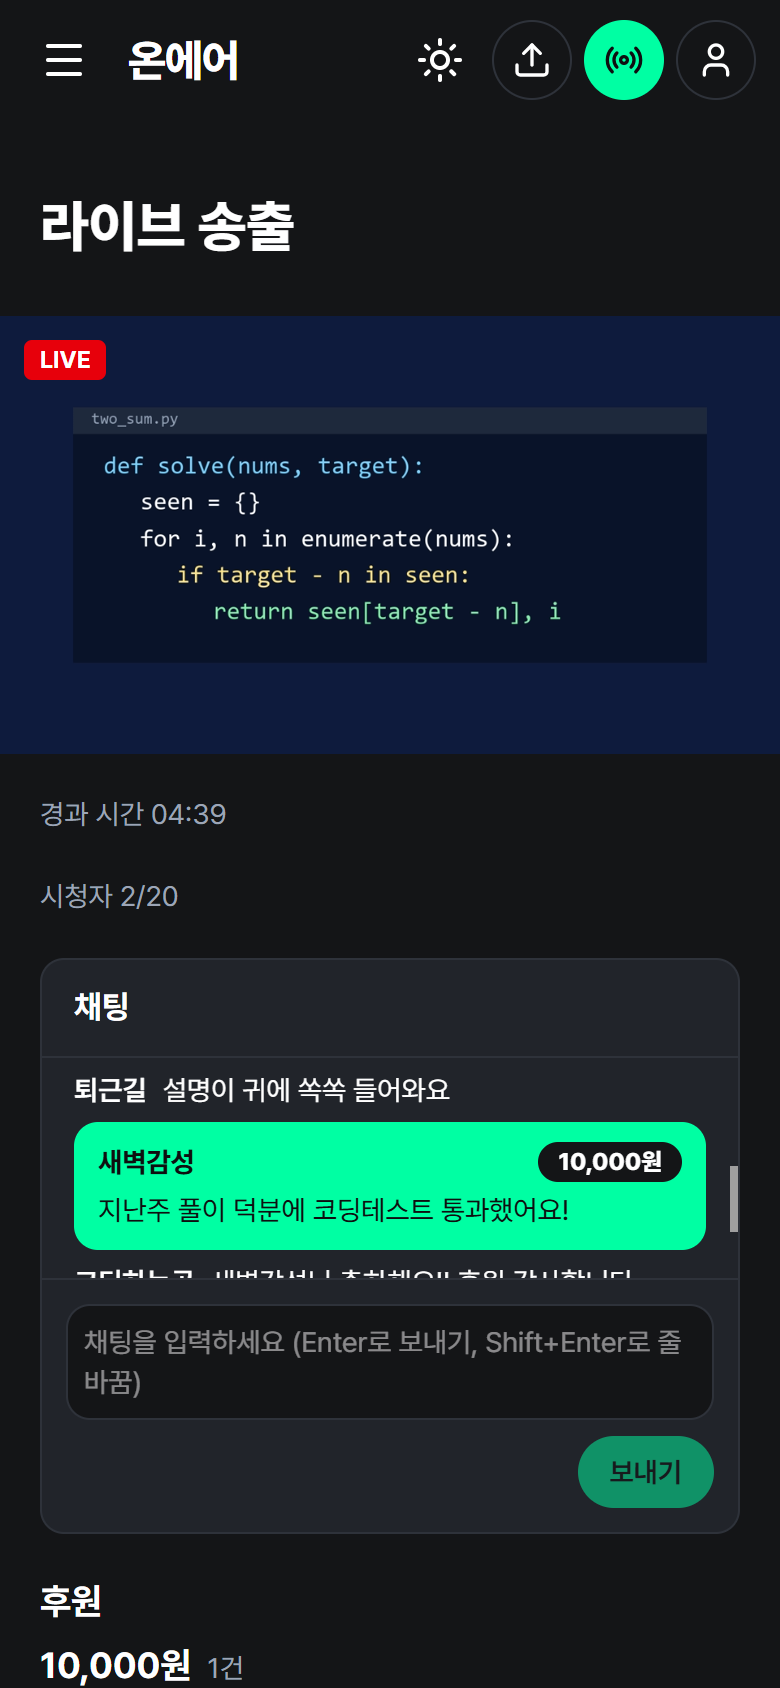
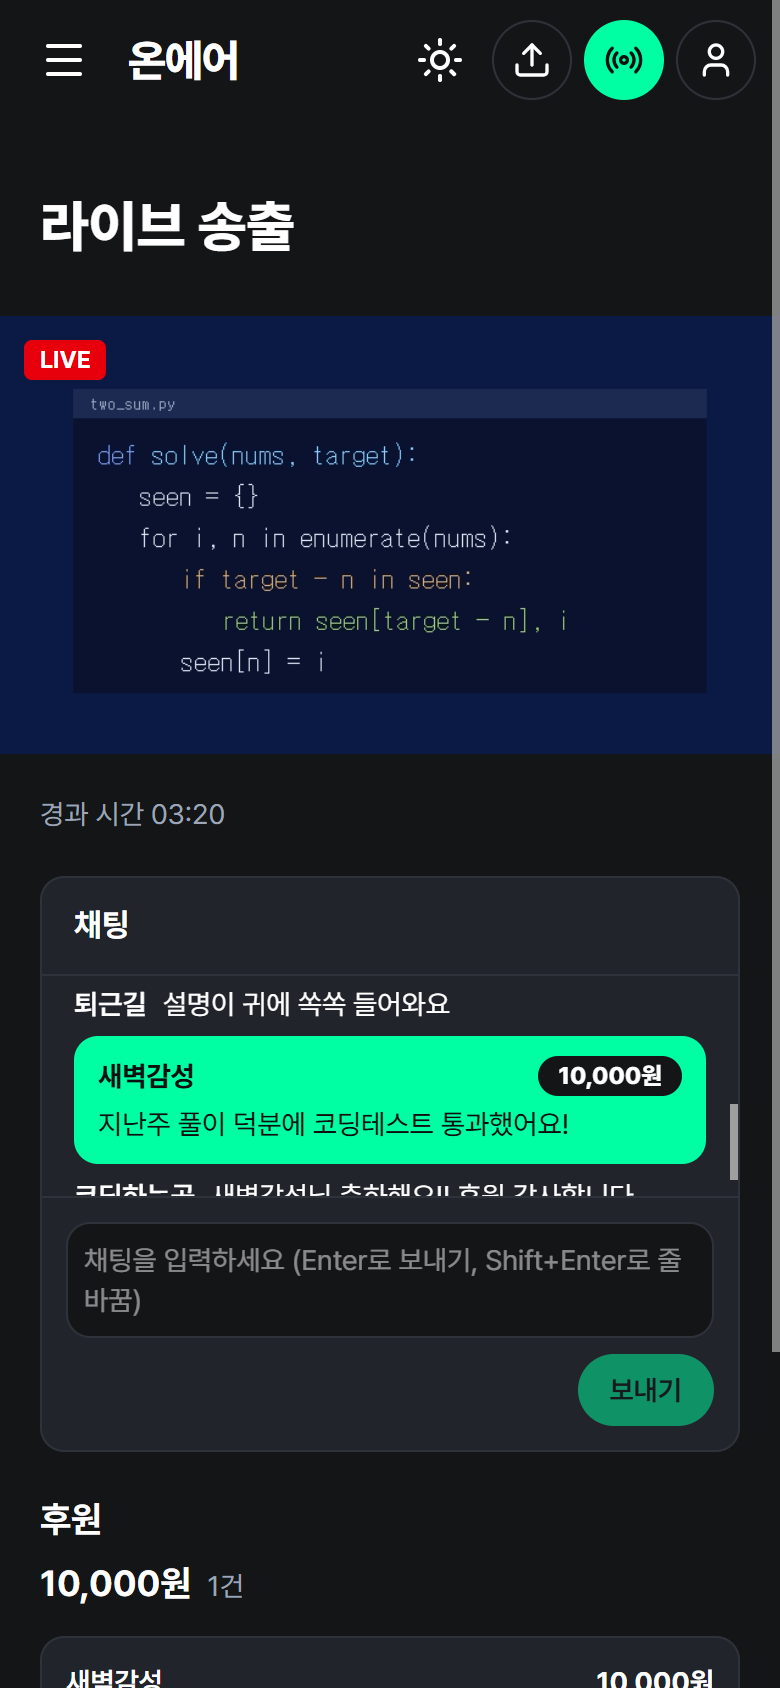
docs: README에 5단계 구성과 기술 스택 반영
- 구성 절에 배포 구성도(Kubernetes)를 더하고 구성도 설명을 고친다.
- 기술 스택에 HLS, Docker, Kubernetes, MediaMTX, Testcontainers, k6를
  더하고, 주요 기능에 확장을 넣는다.
- 휴대폰 송출 화면을 시청자 수 표시가 없는 지금 화면으로 다시
  찍는다(더미 데이터).

Refs #112

diff --git a/README.md b/README.md
@@ -33,10 +33,11 @@
 
 ## 주요 기능
 
-- **방송**: 영상을 올려 녹화방송으로 재생하고, 휴대폰 카메라로 라이브 송출해 다른 기기에서 시청합니다.
+- **방송**: 영상을 올려 녹화방송으로 재생하고, 휴대폰 카메라로 라이브 송출해 다른 기기에서 시청자 수 제한 없이 시청합니다.
 - **사용자와 권한**: 가입·로그인하면 내가 올리거나 송출한 방송을 직접 관리(제목 수정, 삭제, 송출 종료)합니다.
 - **댓글과 채팅**: 녹화방송에는 댓글을 남기고, 라이브방송에서는 실시간으로 채팅합니다.
 - **후원**: 방송 중인 라이브방송에 금액과 메시지를 골라 테스트 결제로 후원하면, 채팅에 바로 나타나고 방송별 내역과 합계에 쌓입니다.
+- **확장**: 서버 여러 대로 실행되고, 부하에 따라 자동으로 늘고 줄어도 로그인·채팅·후원이 이어집니다.
 
 <br>
 
@@ -46,26 +47,33 @@
 | --- | --- |
 | 백엔드 | ![Java](https://img.shields.io/badge/Java_25-000000?logo=openjdk&logoColor=white) ![Spring Boot](https://img.shields.io/badge/Spring_Boot_4-6DB33F?logo=springboot&logoColor=white) ![Spring Security](https://img.shields.io/badge/Spring_Security-6DB33F?logo=springsecurity&logoColor=white) ![PostgreSQL](https://img.shields.io/badge/PostgreSQL-4169E1?logo=postgresql&logoColor=white) ![Gradle](https://img.shields.io/badge/Gradle-02303A?logo=gradle&logoColor=white) |
 | 프런트엔드 | ![React](https://img.shields.io/badge/React-20232A?logo=react&logoColor=61DAFB) ![TypeScript](https://img.shields.io/badge/TypeScript-3178C6?logo=typescript&logoColor=white) ![Vite](https://img.shields.io/badge/Vite-646CFF?logo=vite&logoColor=white) ![Tailwind CSS](https://img.shields.io/badge/Tailwind_CSS-06B6D4?logo=tailwindcss&logoColor=white) ![pnpm](https://img.shields.io/badge/pnpm-F69220?logo=pnpm&logoColor=white) |
-| 실시간 | ![WebRTC](https://img.shields.io/badge/WebRTC-333333?logo=webrtc&logoColor=white) ![WebSocket](https://img.shields.io/badge/WebSocket-010101?logoColor=white) |
+| 실시간 | ![WebRTC](https://img.shields.io/badge/WebRTC_%28WHIP%29-333333?logo=webrtc&logoColor=white) ![HLS](https://img.shields.io/badge/HLS_%28hls.js%29-1F2937?logoColor=white) ![WebSocket](https://img.shields.io/badge/WebSocket-010101?logoColor=white) |
+| 인프라 | ![Docker](https://img.shields.io/badge/Docker-2496ED?logo=docker&logoColor=white) ![Kubernetes](https://img.shields.io/badge/Kubernetes_%28k3d%29-326CE5?logo=kubernetes&logoColor=white) ![MediaMTX](https://img.shields.io/badge/MediaMTX-374151?logoColor=white) |
 | 결제 | ![Toss Payments](https://img.shields.io/badge/토스페이먼츠_결제위젯-3182F6?logoColor=white) |
-| 테스트·CI | ![JUnit](https://img.shields.io/badge/JUnit_5-25A162?logo=junit5&logoColor=white) ![Vitest](https://img.shields.io/badge/Vitest-6E9F18?logo=vitest&logoColor=white) ![GitHub Actions](https://img.shields.io/badge/GitHub_Actions-2088FF?logo=githubactions&logoColor=white) ![CodeQL](https://img.shields.io/badge/CodeQL-2F4F4F?logo=github&logoColor=white) ![gitleaks](https://img.shields.io/badge/gitleaks-CC2936?logoColor=white) |
+| 테스트·CI | ![JUnit](https://img.shields.io/badge/JUnit_5-25A162?logo=junit5&logoColor=white) ![Vitest](https://img.shields.io/badge/Vitest-6E9F18?logo=vitest&logoColor=white) ![GitHub Actions](https://img.shields.io/badge/GitHub_Actions-2088FF?logo=githubactions&logoColor=white) ![CodeQL](https://img.shields.io/badge/CodeQL-2F4F4F?logo=github&logoColor=white) ![gitleaks](https://img.shields.io/badge/gitleaks-CC2936?logoColor=white) ![Testcontainers](https://img.shields.io/badge/Testcontainers-291A3F?logoColor=white) ![k6](https://img.shields.io/badge/k6-7D64FF?logo=k6&logoColor=white) |
 
 <br>
 
 ## 구성
 
 <p align="center">
-  <img src="docs/images/architecture.svg" alt="시청자·송출자 → 웹 화면(React) → API 서버(Spring Boot) → H2·영상 파일, 토스페이먼츠 결제위젯·승인 API·승인 통지" width="100%">
+  <img src="docs/images/architecture.svg" alt="시청자는 웹 화면을 거쳐 여러 인스턴스로 실행되는 API 서버를 쓰고, API 서버는 PostgreSQL과 공유 저장소를 함께 쓴다. 송출자는 WHIP으로 미디어 서버에 보내고, 미디어 서버는 HLS 조각을 공유 저장소에 쓰며 송출 키를 API 서버에 확인한다. 결제는 토스페이먼츠" width="100%">
 </p>
 
 | 구성 | 역할 |
 | --- | --- |
 | 웹 화면 | React SPA. 개발 서버가 `/api`를 백엔드로 넘겨 같은 출처로 동작합니다(CORS 없음). |
 | REST API | 방송·댓글·후원 API. 로그인은 서버 세션 쿠키, 상태를 바꾸는 요청은 CSRF 토큰으로 보호합니다. |
-| 미디어 서버 | 송출 화면이 WebRTC(WHIP)로 보낸 영상을 MediaMTX가 받아 HLS 조각으로 공유 폴더에 씁니다. API 서버는 송출 목록을 읽어 끊긴 방송을 정리합니다. |
+| 미디어 서버 | 송출 화면이 WebRTC(WHIP)로 보낸 영상을 MediaMTX가 받아 HLS 조각으로 공유 폴더에 씁니다. 송출 키는 API 서버에 확인하고, API 서버는 송출 목록을 읽어 끊긴 방송을 정리합니다. |
 | 채팅 WebSocket | 저장된 채팅과 확정된 후원을 방송 중인 화면에 실시간으로 보냅니다(쓰기는 REST). 서버가 여러 대여도 PostgreSQL 알림(NOTIFY)으로 모든 서버의 시청자에게 갑니다. |
 | 영상 | 시청 화면은 API 서버가 공유 폴더에서 내주는 HLS(`/hls/...`)를 재생합니다. |
 | 결제 | 브라우저는 토스 결제위젯으로 결제하고, 서버가 토스 승인 API로 확정합니다. 승인 통지(웹훅)도 받습니다. |
+
+### 배포 구성 (Kubernetes)
+
+<p align="center">
+  <img src="docs/images/kubernetes.svg" alt="k3d 클러스터(노드 1대) 안에서 Ingress(Traefik)가 경로별로 frontend, backend, mediamtx Deployment로 나누고, HPA가 backend Pod를 CPU 50% 기준 1~3개로 조절한다. backend는 StatefulSet postgres와 ConfigMap·Secret을 쓰고, backend와 mediamtx가 PVC videos를 함께 쓴다" width="100%">
+</p>
 
 <br>
 
